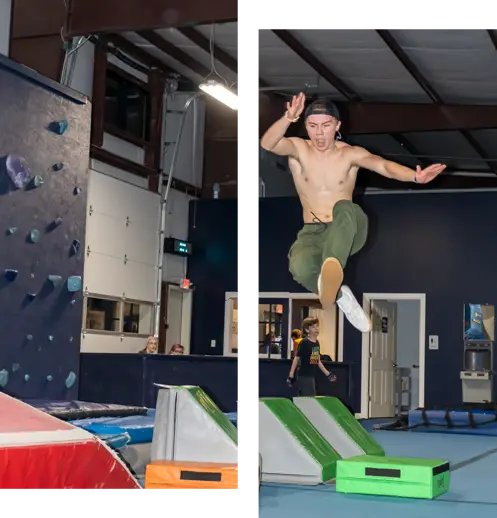
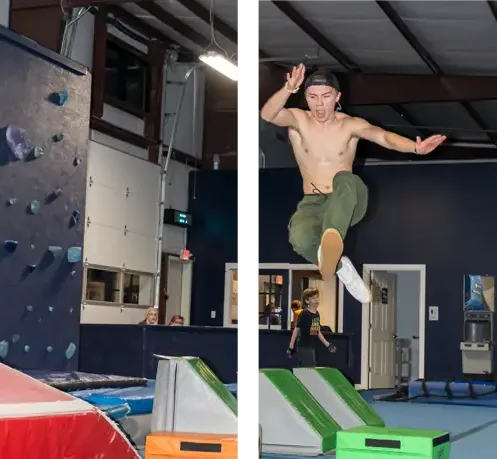
Fix the round-2 layout misses on the audit branch.
Dark-band phone buttons keep a white outline, composite photos are cropped to the rows both pictures share, and the review, birthday, and kids heading layout matches the QA pass. Visible words are unchanged except the byline case and the merged kids age headings.

diff --git a/src/styles/polish.css b/src/styles/polish.css
@@ -62,12 +62,12 @@ a.call,
   color: #285276 !important;
   box-shadow: inset 0 0 0 2px #285276 !important;
 }
-.final-cta .call,
-.b4-cta .cta-phone,
+.bd-close a.btn.btn-secondary,
+.final-cta a.call,
+.b3-band a.btn.btn-secondary,
+.b3-band a.b3-btn.navy,
 .b3-band a.call,
-.b3-band .b3-btn.navy,
-.b3-band a.btn-secondary,
-.bd-close .btn-secondary {
+.b4-cta a.cta-phone {
   color: #fff !important;
   box-shadow: inset 0 0 0 2px #fff !important;
   background-color: transparent !important;
@@ -78,7 +78,7 @@ a[href^="tel:"] { white-space: nowrap; }
 
 /* Reviewer names keep the typed case. One hyphen form, no CSS uppercase. */
 .review-by, .t-by, .b2-qn, .q-by, .pt-quotes .by {
-  text-transform: none;
+  text-transform: none !important;
   letter-spacing: 0;
 }
 
@@ -216,15 +216,23 @@ a[href^="tel:"] { white-space: nowrap; }
   .bd-split > img,
   .pk-row > img,
   .camp-layout img,
+  .page-summer-camps-in-springfield-mo .camp-photo,
   .wnl-top > img,
   .bd-mem-grid > img,
   .warrior-photo,
-  .row > img {
-    width: 100%;
-    height: 100%;
-    object-fit: cover;
+  .home-ready-photos img,
+  .row > img,
+  .page-kids-classes img.face,
+  .page-birthday-parties .bd-laser,
+  .page-about .row > img {
+    width: 100% !important;
+    height: 100% !important;
+    object-fit: cover !important;
   }
-  .page-kids-classes .csna-block img { object-position: center 20%; }
+  .home-ready-grid { align-items: stretch !important; }
+  .home-ready-photos { height: 100%; }
+  .page-kids-classes .csna-block img { object-position: center 20% !important; }
+  .lt-night img { object-position: center 72% !important; }
 }
 @media (max-width: 799px) {
   .b3-split > img,
@@ -233,12 +241,26 @@ a[href^="tel:"] { white-space: nowrap; }
   .lt-night img,
   .nf-night img,
   .row > img,
-  .bd-mem-photo {
-    width: 100%;
-    aspect-ratio: 4 / 3;
-    height: auto;
-    object-fit: cover;
+  .bd-mem-photo,
+  .page-kids-classes img.face,
+  .page-birthday-parties .bd-laser,
+  .page-summer-camps-in-springfield-mo .camp-photo,
+  .home-ready-photos img,
+  .page-about .row > img {
+    width: 100% !important;
+    aspect-ratio: 4 / 3 !important;
+    height: auto !important;
+    object-fit: cover !important;
+    object-position: center 28% !important;
   }
+  .page-kids-classes .row.text-first,
+  .page-kids-classes .row.img-first {
+    display: flex !important;
+    flex-direction: column !important;
+  }
+  .page-kids-classes .row > img { order: 2 !important; }
+  .page-kids-classes .row > .copy { order: 1 !important; }
+  .lt-night img { object-position: center 72% !important; }
   .lt-night .b3-split img,
   .nf-night .b3-split img { order: 2; }
   .lt-night h2,
@@ -274,16 +296,37 @@ a[href^="tel:"] { white-space: nowrap; }
   width: min(16em, 100%);
   margin-inline: auto;
 }
+.page-birthday-parties .bd-sub {
+  text-align: center !important;
+  width: min(18em, 100%) !important;
+  margin-left: auto !important;
+  margin-right: auto !important;
+}
 .page-birthday-parties .bd-intro h2,
 .page-birthday-parties .bd-stress-title,
 .page-birthday-parties .bd-more,
 .page-birthday-parties .bd-mem h2,
+.page-birthday-parties .bd-book h2,
 .page-birthday-parties .bd-close h2 {
-  font-family: Heebo, "Arial Narrow", sans-serif;
-  font-weight: 900;
-  font-size: 40px;
-  line-height: 1.15;
-  text-transform: uppercase;
+  font-family: Heebo, "Arial Narrow", sans-serif !important;
+  font-weight: 900 !important;
+  font-size: 40px !important;
+  line-height: 1.15 !important;
+  text-transform: uppercase !important;
+}
+.page-birthday-parties .bd-intro h2,
+.page-birthday-parties .bd-stress-title,
+.page-birthday-parties .bd-more,
+.page-birthday-parties .bd-mem h2 {
+  color: #d6352f !important;
+}
+.page-birthday-parties .bd-book h2,
+.page-birthday-parties .bd-close h2 {
+  color: #fff !important;
+}
+.page-birthday-parties .b2-fact,
+.page-birthday-parties .b2-fact-wide {
+  margin-top: 16px !important;
 }
 .page-birthday-parties .bd-pizza h3 {
   width: auto;
@@ -306,7 +349,24 @@ a[href^="tel:"] { white-space: nowrap; }
   line-height: 1.5;
 }
 .page-birthday-parties .bd-policy strong { font-weight: 700; }
-.page-birthday-parties main a:not(.btn):not(.go) { color: #d6352f; text-decoration: underline; text-underline-offset: 2px; }
+main :where(a:not(.btn):not(.b3-btn):not(.go):not(.comp-btn):not(.cta-phone):not(.call):not(.b4-visit)) {
+  color: #d6352f !important;
+  font-weight: 600 !important;
+  text-decoration: underline !important;
+  text-underline-offset: 2px;
+}
+.bd-book a,
+.bd-close a:not(.btn),
+.b3-band a:not(.b3-btn):not(.btn),
+.final-cta a:not(.btn):not(.go):not(.call),
+.fun a:not(.btn),
+.persevere a,
+.hs-book a:not(.b3-btn):not(.btn) {
+  color: #fff !important;
+  font-weight: 600 !important;
+  text-decoration: underline !important;
+  text-underline-offset: 2px;
+}
 .page-birthday-parties .atf-photo { object-position: center 30%; }
 
 /* Fitness heading is real title case. Benefit cards are article copy. */
@@ -432,7 +492,25 @@ a[href^="tel:"] { white-space: nowrap; }
 .camp-form .form-note { margin-top: 20px; }
 
 /* Ranges stay on one line. */
-.range { white-space: nowrap; }
+.range { white-space: nowrap !important; }
+
+/* Body paragraphs keep a gap. The last one in its group does not. */
+@media (max-width: 799px) {
+  .page-birthday-parties .bd-split p:not(.b2-fact),
+  .page-birthday-parties .bd-battles p:not(.b2-fact),
+  .page-nerf-wars .nf-party .b3-split p,
+  .page-laser-tag .lt-party .b3-split p {
+    margin-bottom: 16px !important;
+  }
+  .page-birthday-parties .bd-split p:last-child,
+  .page-birthday-parties .bd-battles div > p:last-of-type,
+  .page-nerf-wars .nf-party .b3-split > div > p:last-of-type,
+  .page-laser-tag .lt-party .b3-split > div > p:last-of-type {
+    margin-bottom: 0 !important;
+  }
+}
+.night-copy > p { margin: 0 0 16px !important; }
+.night-copy > p:last-child { margin-bottom: 0 !important; }
 
 /* Heading space stays inside the section so it does not open a white strip above it. */
 .bd-options { padding-top: 100px; }

diff --git a/src/styles/batch2.css b/src/styles/batch2.css
@@ -1059,8 +1059,19 @@
   }
   .camp-time { width: 136px; max-width: 136px; }
   .camp-intro p,
-  .camp-price { width: min(338px, 100%); font-size: 18px; line-height: 32px; padding-bottom: 0; }
-  .camp-reg { padding-bottom: 0; }
+  .camp-price,
+  .camp-reg {
+    width: min(338px, 100%);
+    margin: 0 0 16px;
+    padding-bottom: 0;
+    color: rgba(0, 0, 0, 0.7);
+    font-family: Epilogue, Arial, sans-serif;
+    font-size: 16px;
+    line-height: 24px;
+  }
+  .camp-intro p:last-child,
+  .camp-copy > .camp-price:last-child,
+  .camp-reg:last-child { margin-bottom: 0; }
   .camp-photo { order: -1; margin: 0 0 16px; }
   .camp-layout { display: flex; flex-direction: column; }
   .camp-reg,
